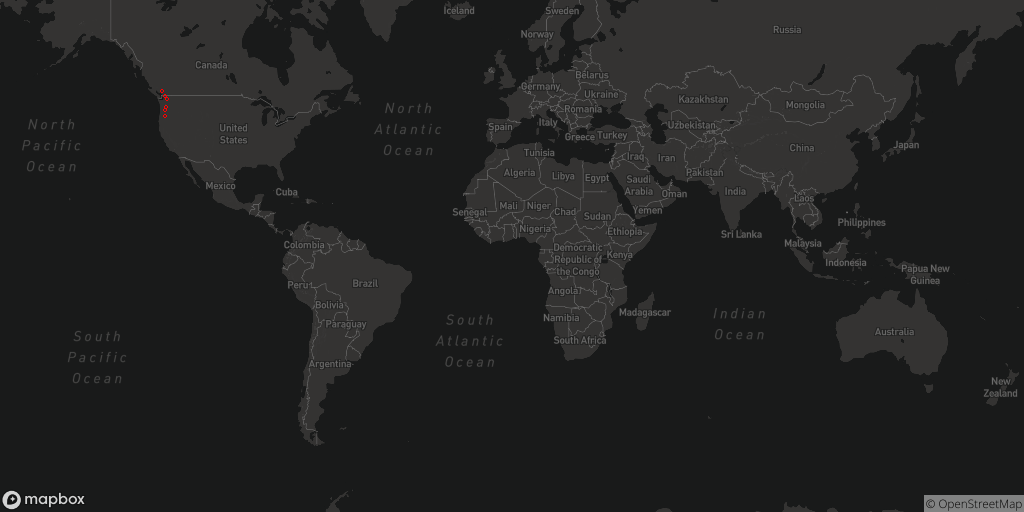
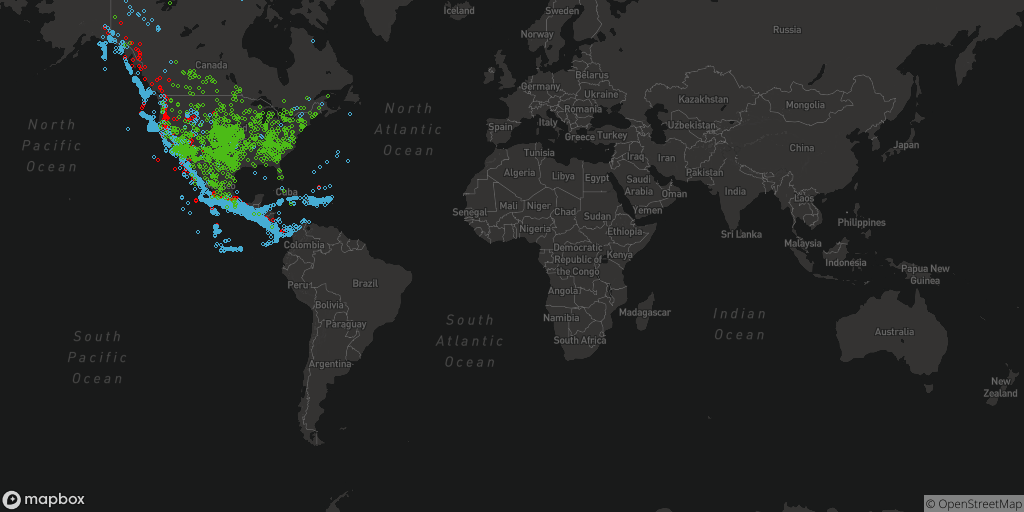
query2.py finished

Changed region(s): [[0.125, 0.125, 0.3438, 0.5], [0.0938, 0.0625, 0.125, 0.125]]

diff --git a/Assignments/program_5/mapping_helper.py b/Assignments/program_5/mapping_helper.py
@@ -24,11 +24,19 @@ def mercY(lat):
     return int(a * c)
 
 def x_to_lon(x,width):
-    pass
+    #http://board.flashkit.com/board/showthread.php?666832-Turn-latitude-longitude-into-X-Y-coordinates
+    '''DEGREES_PER_RADIAN = 57.2958
+    RADIANS_PER_DEGREE = 0.0174533
+    sign = math.sin(x)
+    sin = math.sin(x * RADIANS_PER_DEGREE * sign)
+    #return (sign * (math.log((1.0 + sin) / (1.0 - sin)) / 2.0)) *180
+    return (math.atan(math.sinh(float(x))) * DEGREES_PER_RADIAN);'''
+    return ((float(x)/(width/360.0))-180.0)
 
 
 def y_to_lat(y,height):
-    pass
+    #https://stackoverflow.com/questions/1166059/how-can-i-get-latitude-longitude-from-x-y-on-a-mercator-map-jpeg
+    return ((((height/2.0)-y)/(height/2.0))*90)
 
 def adjust_location_coords(extremes,points,width,height):
     """

diff --git a/Assignments/program_5/query2.py b/Assignments/program_5/query2.py
@@ -97,12 +97,9 @@ while running:
     if x_y_coords != None and converted_to_lat_lon == False:
         #Dont have a way to convert this yet
         #lat,lon = print("gon' convert this bitch", x_y_coords)
-        
         lon,lat = (event.pos[0],event.pos[1])
-        '''print(lat,lon)
         lat = y_to_lat(lat,height)
         lon = x_to_lon(lon,width)
-        print(lat,lon)'''
         converted_to_lat_lon = True
 
 
